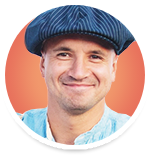
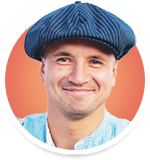
Вырезали другую картинку, задали ширину слайдеру

diff --git a/source/js/main.js b/source/js/main.js
@@ -3,5 +3,5 @@
 $('.slider-artists').slick({
   infinite: true,
   slidesToShow: 5,
-  slidesToScroll: 3
+  slidesToScroll: 1
 });

diff --git a/source/scss/blocks/index/slider-artists.scss b/source/scss/blocks/index/slider-artists.scss
@@ -1,4 +1,3 @@
 .slider-artists {
 	max-width: 940px;
-
 }
